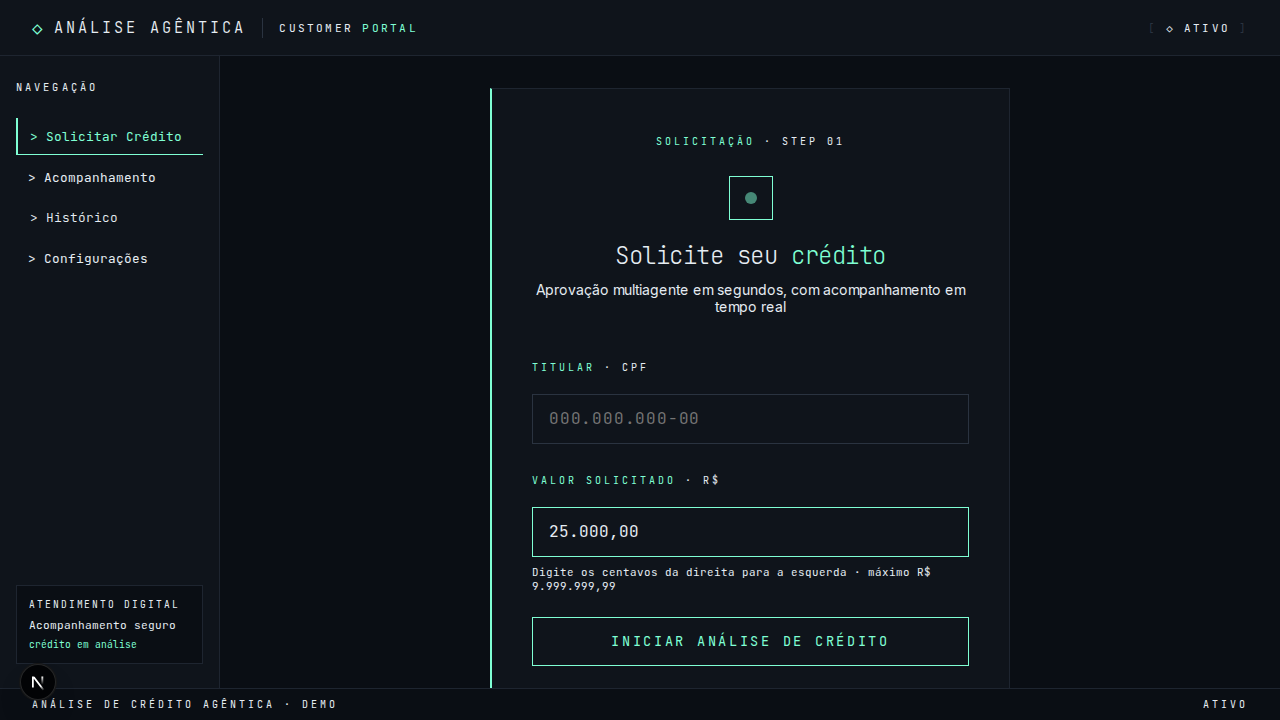
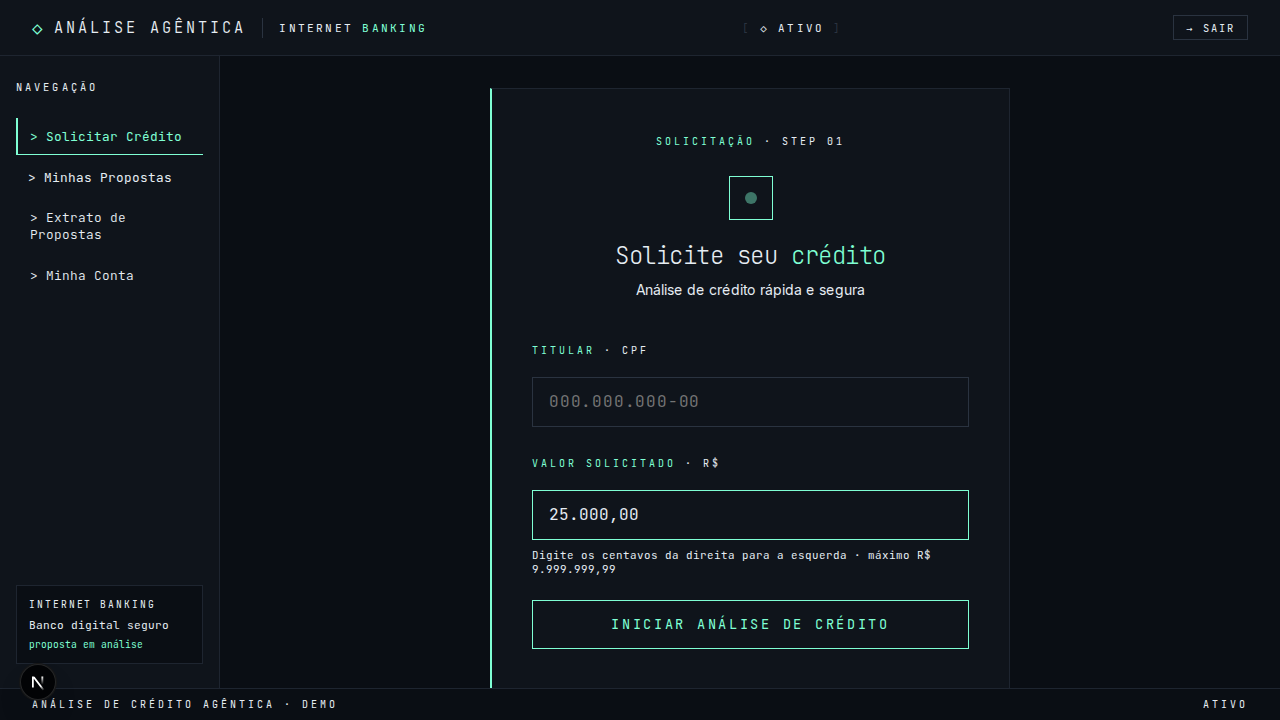
test(ux): validate banking customer flows
Ref: openspec/changes/banking-ux/tasks.md#10-11

diff --git a/tests/e2e/banking-ux.spec.ts b/tests/e2e/banking-ux.spec.ts
@@ -1,0 +1,86 @@
+import { expect, test } from '@playwright/test';
+import AxeBuilder from '@axe-core/playwright';
+
+async function loginAs(page: import('@playwright/test').Page, role: 'cliente' | 'operador') {
+  await page.goto('http://localhost:3000/login');
+  await page.getByRole('button', { name: new RegExp(`entrar como ${role}`, 'i') }).click();
+  await expect(page).toHaveURL(role === 'cliente' ? 'http://localhost:3000/' : 'http://localhost:3001/');
+}
+
+async function expectNoSeriousA11yViolations(page: import('@playwright/test').Page) {
+  const results = await new AxeBuilder({ page }).analyze();
+  const blocking = results.violations.filter((violation) => violation.impact === 'serious' || violation.impact === 'critical');
+  expect(blocking, blocking.map((violation) => `${violation.id}: ${violation.help}`).join('\n')).toEqual([]);
+}
+
+test.describe('Banking UX', () => {
+  test('customer sees banking language and a fluid workflow', async ({ page }) => {
+    await loginAs(page, 'cliente');
+
+    await expect(page.getByRole('banner').getByText('Internet Banking', { exact: true })).toBeVisible();
+    await expect(page.getByText('> Minhas Propostas', { exact: true })).toBeVisible();
+    await expect(page.getByText('> Extrato de Propostas', { exact: true })).toBeVisible();
+    await expect(page.getByText('> Minha Conta', { exact: true })).toBeVisible();
+    await expect(page.getByText('Análise de crédito rápida e segura')).toBeVisible();
+    await expectNoSeriousA11yViolations(page);
+    await page.screenshot({ path: 'docs/screenshots/banking-home.png', fullPage: true });
+
+    await page.setViewportSize({ width: 375, height: 812 });
+    await page.screenshot({ path: 'docs/screenshots/banking-home-mobile.png', fullPage: true });
+    await page.setViewportSize({ width: 1440, height: 900 });
+
+    await page.goto('http://localhost:3000/status/banking-test?cpf=123.456.789-00&amount=25000');
+    await expect(page.getByRole('heading', { name: /acompanhe sua proposta/i })).toBeVisible();
+    await expect(page.getByRole('heading', { name: /o que está acontecendo agora/i })).toBeVisible();
+    await expect(page.locator('[data-workflow-status="active"]')).toHaveCount(1, { timeout: 4_000 });
+    await expect(page.locator('[data-workflow-spinner]')).toBeVisible();
+    expect(await page.locator('[data-workflow-status="queued"]').count()).toBeGreaterThan(0);
+    await expect(page.getByText('Aguardando', { exact: true }).first()).toBeVisible();
+    await expectNoSeriousA11yViolations(page);
+    await page.screenshot({ path: 'docs/screenshots/banking-workflow-mid.png', fullPage: true });
+
+    await expect(page.getByText('Proposta aprovada · seu crédito está disponível')).toBeVisible({ timeout: 12_000 });
+    await expect(page.locator('[data-workflow-status="done"]')).toHaveCount(5);
+    await page.screenshot({ path: 'docs/screenshots/banking-workflow-done.png', fullPage: true });
+  });
+
+  test('settings persist preferences, toggle debug and sign out', async ({ page }) => {
+    await loginAs(page, 'cliente');
+    await page.goto('http://localhost:3000/configuracoes');
+
+    await expect(page.getByRole('heading', { name: /minha conta/i })).toBeVisible();
+    await expect(page.getByRole('tab')).toHaveCount(3);
+    await expectNoSeriousA11yViolations(page);
+    await page.screenshot({ path: 'docs/screenshots/banking-settings.png', fullPage: true });
+
+    await page.getByRole('tab', { name: 'Notificações' }).click();
+    const emailToggle = page.getByRole('switch', { name: 'Receber resultado por e-mail' });
+    await emailToggle.click();
+    await expect(emailToggle).toHaveAttribute('aria-checked', 'true');
+    await page.reload();
+    await page.getByRole('tab', { name: 'Notificações' }).click();
+    await expect(page.getByRole('switch', { name: 'Receber resultado por e-mail' })).toHaveAttribute('aria-checked', 'true');
+
+    await page.getByRole('tab', { name: 'Exibição' }).click();
+    await page.getByRole('switch', { name: 'Modo debug' }).click();
+    await expect(page.getByLabel('Debug mode')).toBeVisible();
+
+    await page.getByRole('tab', { name: 'Perfil' }).click();
+    await page.getByRole('button', { name: 'Sair da conta' }).last().click();
+    await expect(page).toHaveURL(/localhost:3000\/login/);
+  });
+
+  test('workflow animations collapse under reduced motion and operator can sign out', async ({ page }) => {
+    await page.emulateMedia({ reducedMotion: 'reduce' });
+    await loginAs(page, 'cliente');
+    await page.goto('http://localhost:3000/status/banking-reduced?cpf=123.456.789-00&amount=25000');
+    await expect(page.locator('[data-workflow-status="active"]')).toHaveCount(1);
+    const duration = await page.locator('[data-workflow-status="active"] article > div').last().evaluate((element) => getComputedStyle(element).transitionDuration);
+    expect(Number.parseFloat(duration)).toBeLessThanOrEqual(0.001);
+
+    await page.context().clearCookies();
+    await loginAs(page, 'operador');
+    await page.getByRole('button', { name: 'Sair da conta' }).click();
+    await expect(page).toHaveURL(/localhost:3000\/login/);
+  });
+});

diff --git a/openspec/changes/banking-ux/tasks.md b/openspec/changes/banking-ux/tasks.md
@@ -1,14 +1,22 @@
 # Tasks — Banking UX
 
 - [x] 1. Criar OpenSpec leve com `proposal.md`, `tasks.md` e `prompt.md`.
-- [ ] 2. Aplicar linguagem bancária nas páginas customer e nas variantes customer do layout compartilhado.
-- [ ] 3. Atualizar chunks e mensagens finais da análise para linguagem bancária.
-- [ ] 4. Criar e exportar `WorkflowCard` com estados queued, active, done, waiting e error.
-- [ ] 5. Integrar o workflow fluido na página de status customer, mantendo `ReasoningStream` no operator.
-- [ ] 6. Adicionar logout no header de todos os usos de `CockpitLayout`.
-- [ ] 7. Ativar `Minha Conta` na navegação customer.
-- [ ] 8. Criar `/configuracoes` com tabs Perfil, Notificações e Exibição.
-- [ ] 9. Persistir preferências de notificação e integrar o toggle de debug.
-- [ ] 10. Validar termos residuais, fluxos, responsividade, reduced motion, acessibilidade e densidade aquamarine.
-- [ ] 11. Executar `npm run check-types`, lint e build.
+- [x] 2. Aplicar linguagem bancária nas páginas customer e nas variantes customer do layout compartilhado.
+- [x] 3. Atualizar chunks e mensagens finais da análise para linguagem bancária.
+- [x] 4. Criar e exportar `WorkflowCard` com estados queued, active, done, waiting e error.
+- [x] 5. Integrar o workflow fluido na página de status customer, mantendo `ReasoningStream` no operator.
+- [x] 6. Adicionar logout no header de todos os usos de `CockpitLayout`.
+- [x] 7. Ativar `Minha Conta` na navegação customer.
+- [x] 8. Criar `/configuracoes` com tabs Perfil, Notificações e Exibição.
+- [x] 9. Persistir preferências de notificação e integrar o toggle de debug.
+- [x] 10. Validar termos residuais, fluxos, responsividade, reduced motion, acessibilidade e densidade aquamarine.
+- [x] 11. Executar `npm run check-types`, lint e build.
 
+
+## Evidências de fechamento
+
+- Scan de termos técnicos visíveis no customer: 0 ocorrências.
+- Playwright: 7 cenários aprovados (Auth/RBAC + Banking UX).
+- Axe: 0 violações sérias ou críticas nas telas validadas.
+- Densidade aquamarine: home 11,57%; workflow mid 7,68%; workflow done 8,25%; configurações 6,33%.
+- Typecheck, lint e build: aprovados em 2026-07-13.